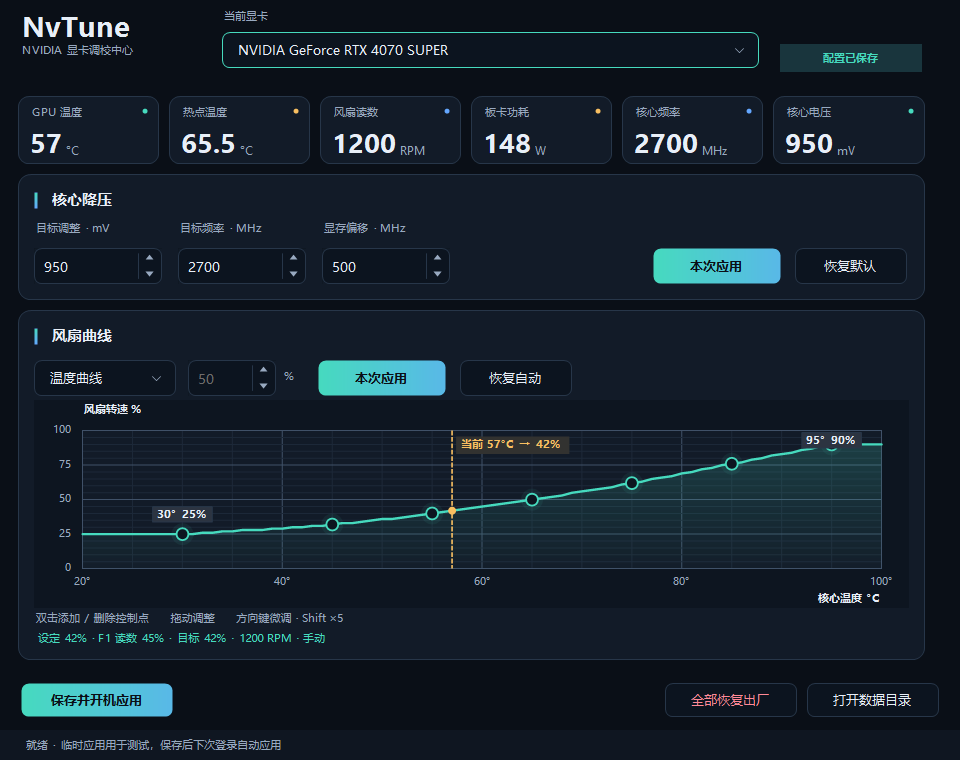
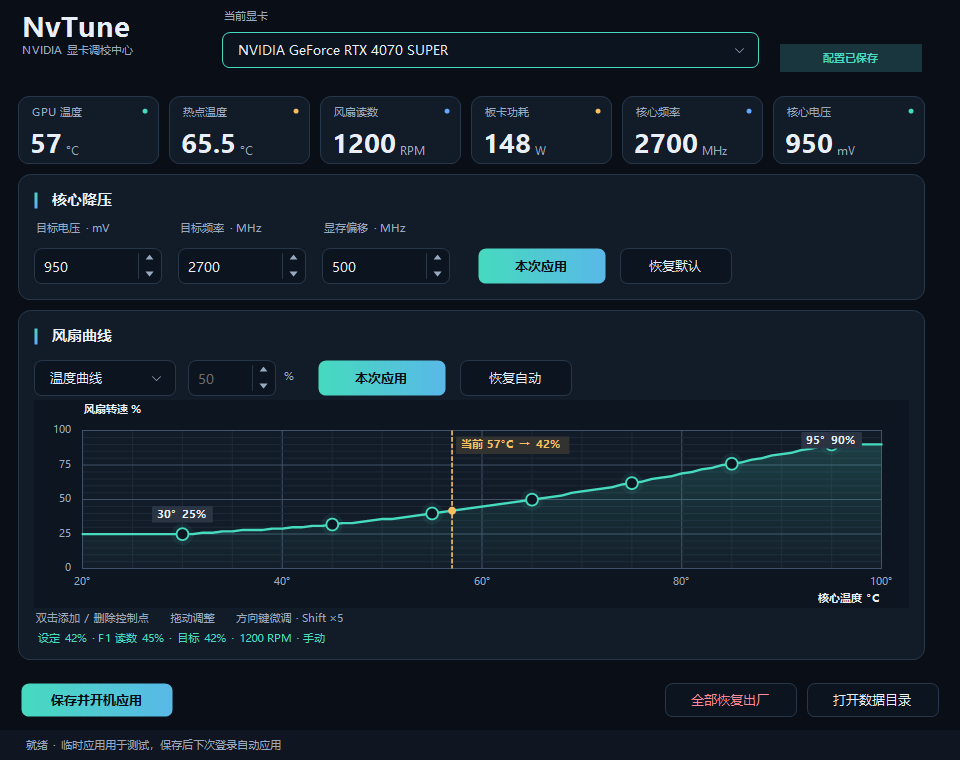
Clarify target voltage and move tuning actions next to inputs

Changed region(s): [[0.5, 0.3026, 0.8125, 0.3934], [0.8438, 0.3329, 0.9062, 0.3632], [0.0625, 0.2724, 0.0938, 0.3026]]

diff --git a/src/NvTune.App/MainForm.Layout.cs b/src/NvTune.App/MainForm.Layout.cs
@@ -125,19 +125,19 @@ internal sealed partial class MainForm
         var grid = Theme.Table(6, 2);
         grid.ColumnStyles.Clear();
         for (int i = 0; i < 3; i++) grid.ColumnStyles.Add(new ColumnStyle(SizeType.Absolute, D(144)));
-        grid.ColumnStyles.Add(new ColumnStyle(SizeType.Percent, 100));
         grid.ColumnStyles.Add(new ColumnStyle(SizeType.Absolute, D(142)));
         grid.ColumnStyles.Add(new ColumnStyle(SizeType.Absolute, D(126)));
+        grid.ColumnStyles.Add(new ColumnStyle(SizeType.Percent, 100));
         grid.RowStyles.Clear();
         grid.RowStyles.Add(new RowStyle(SizeType.Absolute, D(24)));
         grid.RowStyles.Add(new RowStyle(SizeType.Absolute, D(38)));
-        AddField(grid, 0, "目标调整 · mV", _mvInput);
+        AddField(grid, 0, "目标电压 · mV", _mvInput);
         AddField(grid, 1, "目标频率 · MHz", _mhzInput);
         AddField(grid, 2, "显存偏移 · MHz", _memInput);
         var apply = Theme.PrimaryButton("本次应用", (_, _) => ApplyUndervolt());
         _tips.SetToolTip(apply, "临时应用降压，关闭软件后恢复保存的配置");
-        grid.Controls.Add(Theme.Cell(apply, new Padding(D(12), 0, 0, 0)), 4, 1);
-        grid.Controls.Add(Theme.Cell(Theme.SecondaryButton("恢复默认", (_, _) => ResetUndervolt()), new Padding(D(12), 0, 0, 0)), 5, 1);
+        grid.Controls.Add(Theme.Cell(apply, new Padding(D(12), 0, 0, 0)), 3, 1);
+        grid.Controls.Add(Theme.Cell(Theme.SecondaryButton("恢复默认", (_, _) => ResetUndervolt()), new Padding(D(12), 0, 0, 0)), 4, 1);
         body.Controls.Add(grid);
         return card;
     }

diff --git a/src/NvTune.App/MainForm.cs b/src/NvTune.App/MainForm.cs
@@ -74,7 +74,7 @@ internal sealed partial class MainForm : Form
     {
         _preview = preview;
         SuspendLayout();
-        Text = "NvTune 1.0.12 · NVIDIA 降压与风扇";
+        Text = "NvTune 1.0.13 · NVIDIA 降压与风扇";
         Font = Theme.BodyFont();
         BackColor = Theme.Canvas;
         AutoScaleDimensions = new SizeF(96, 96);

diff --git a/CHANGELOG.md b/CHANGELOG.md
@@ -1,5 +1,11 @@
 # 修订记录
 
+## 1.0.13（2026-11-20）
+
+- 将“目标调整”改为“目标电压”，保留 mV 单位。
+- 将核心降压栏的“本次应用”和“恢复默认”移到显存偏移输入框后方，窗口拉宽时不再把按钮推向右侧。
+- 同步使用步骤和界面预览。
+
 ## 1.0.12（2026-11-20）
 
 - 将电压输入框标签由“电压上限”改为“目标调整”，保留 mV 单位与原有调校逻辑。
